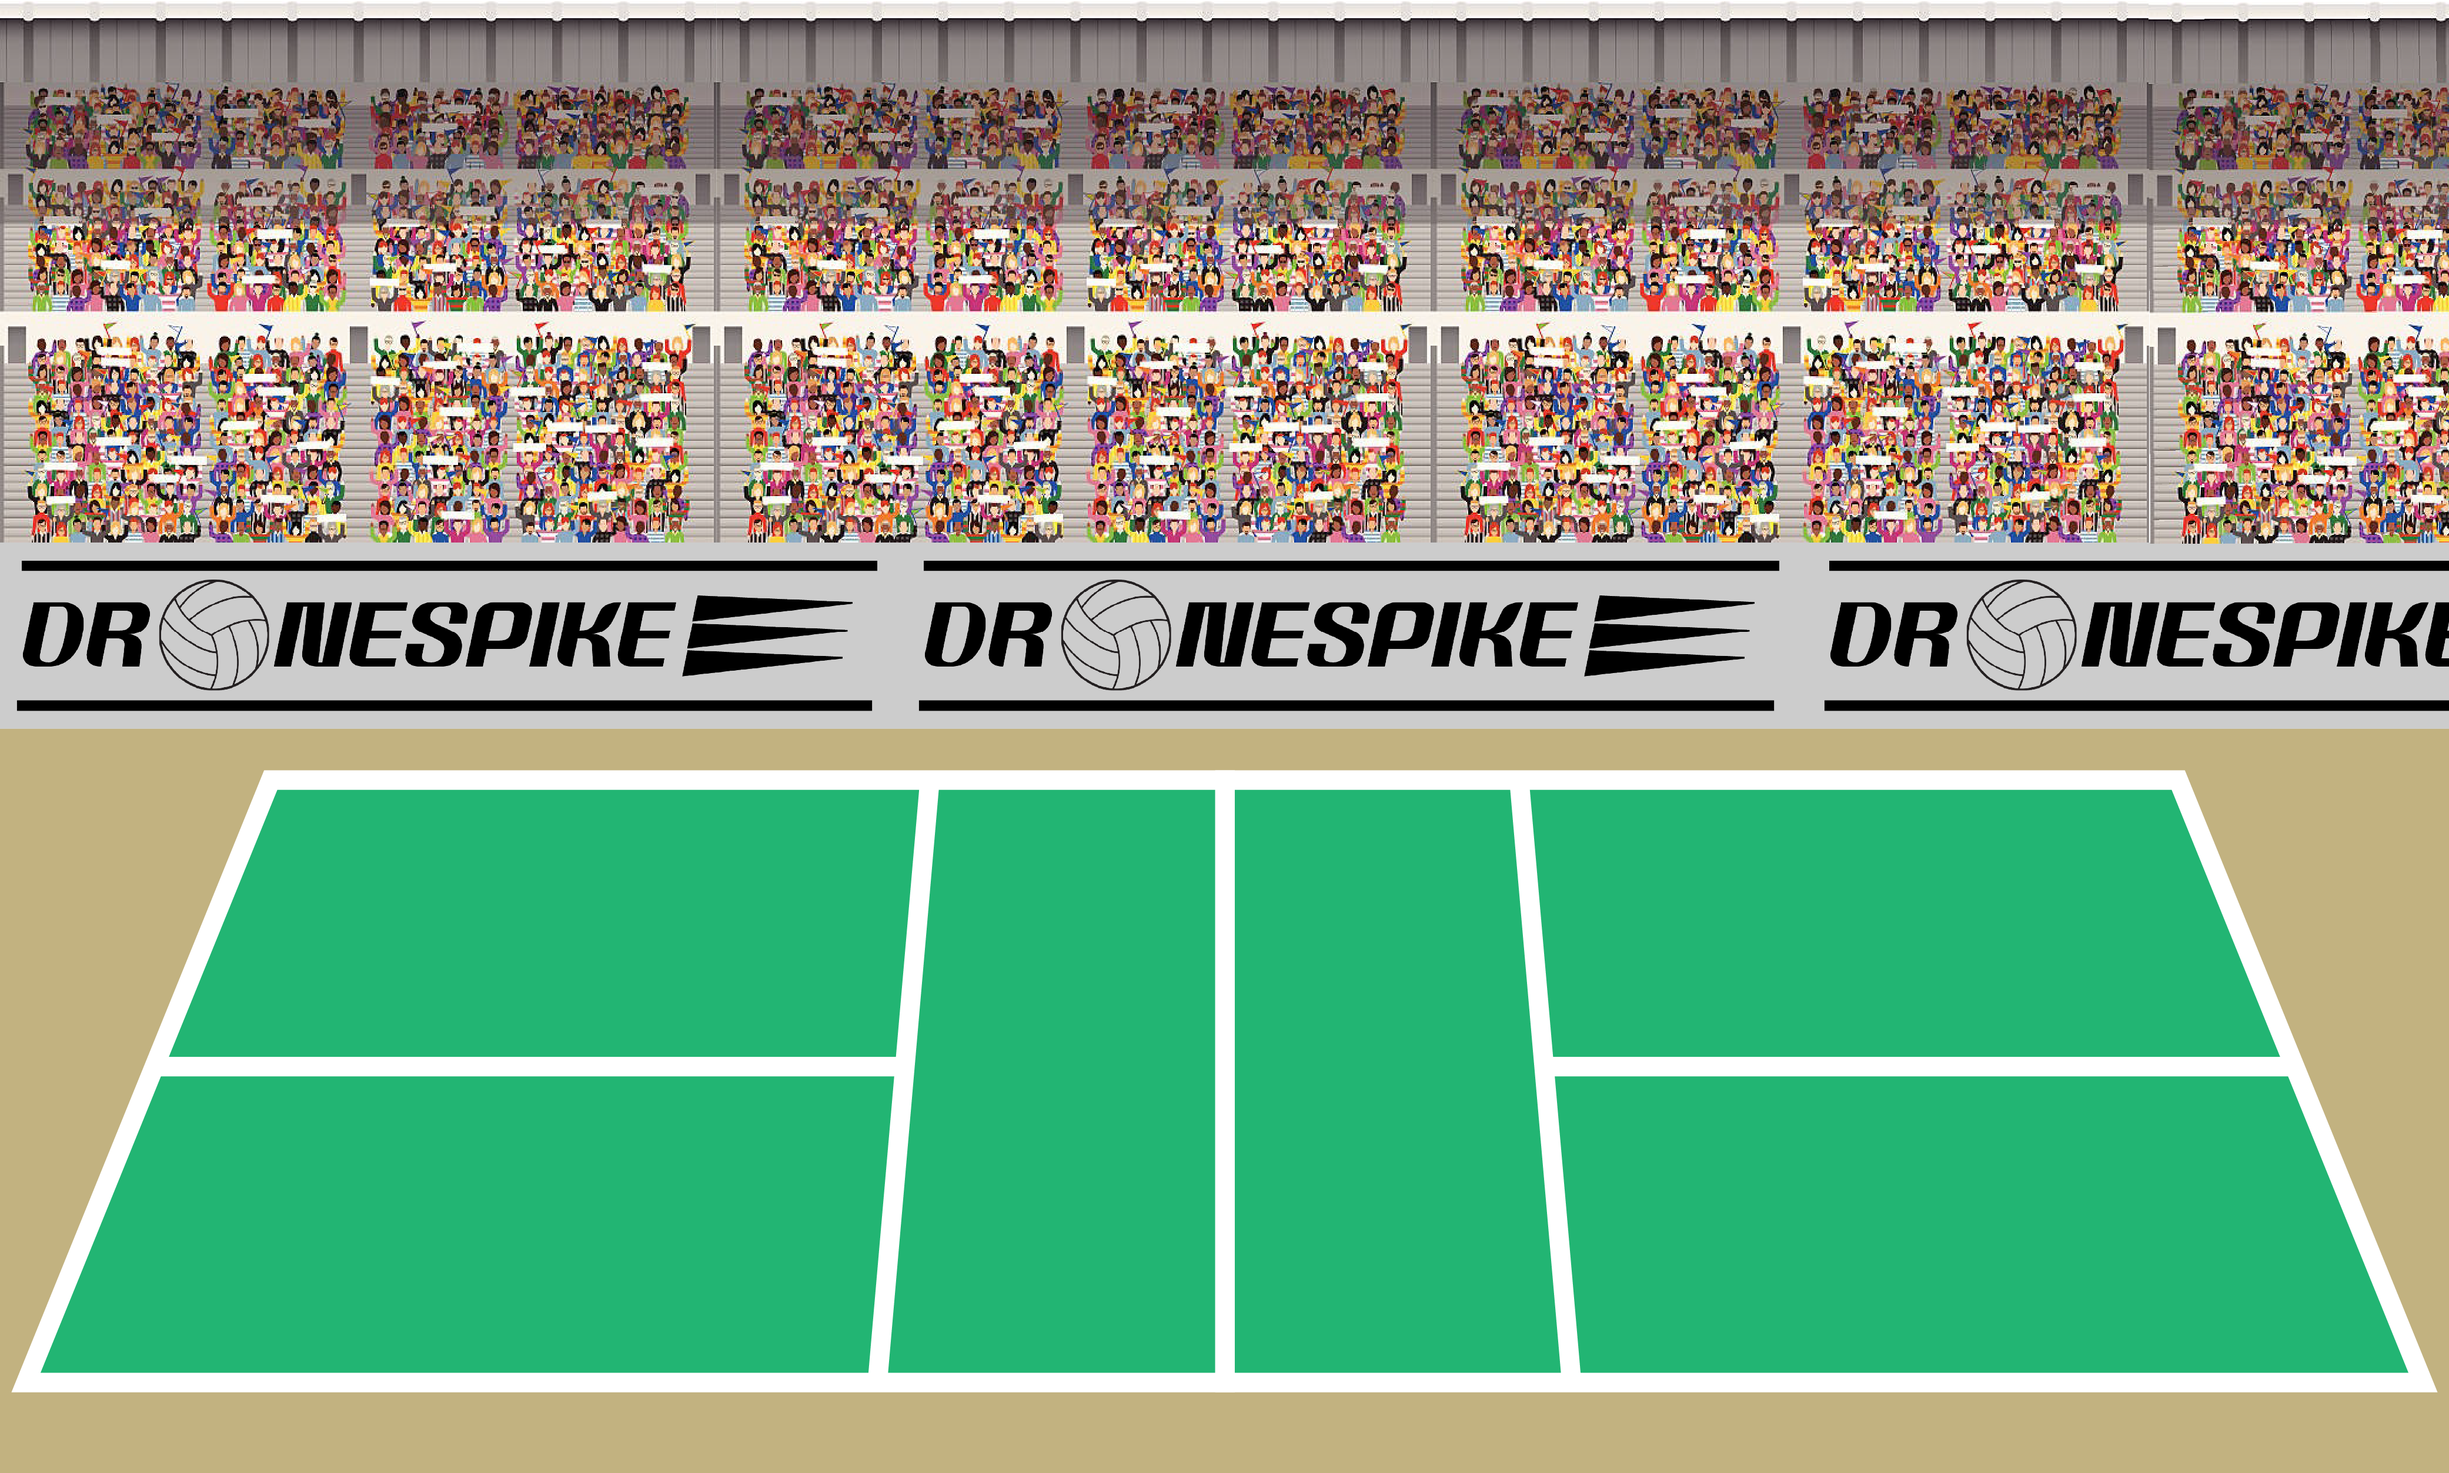
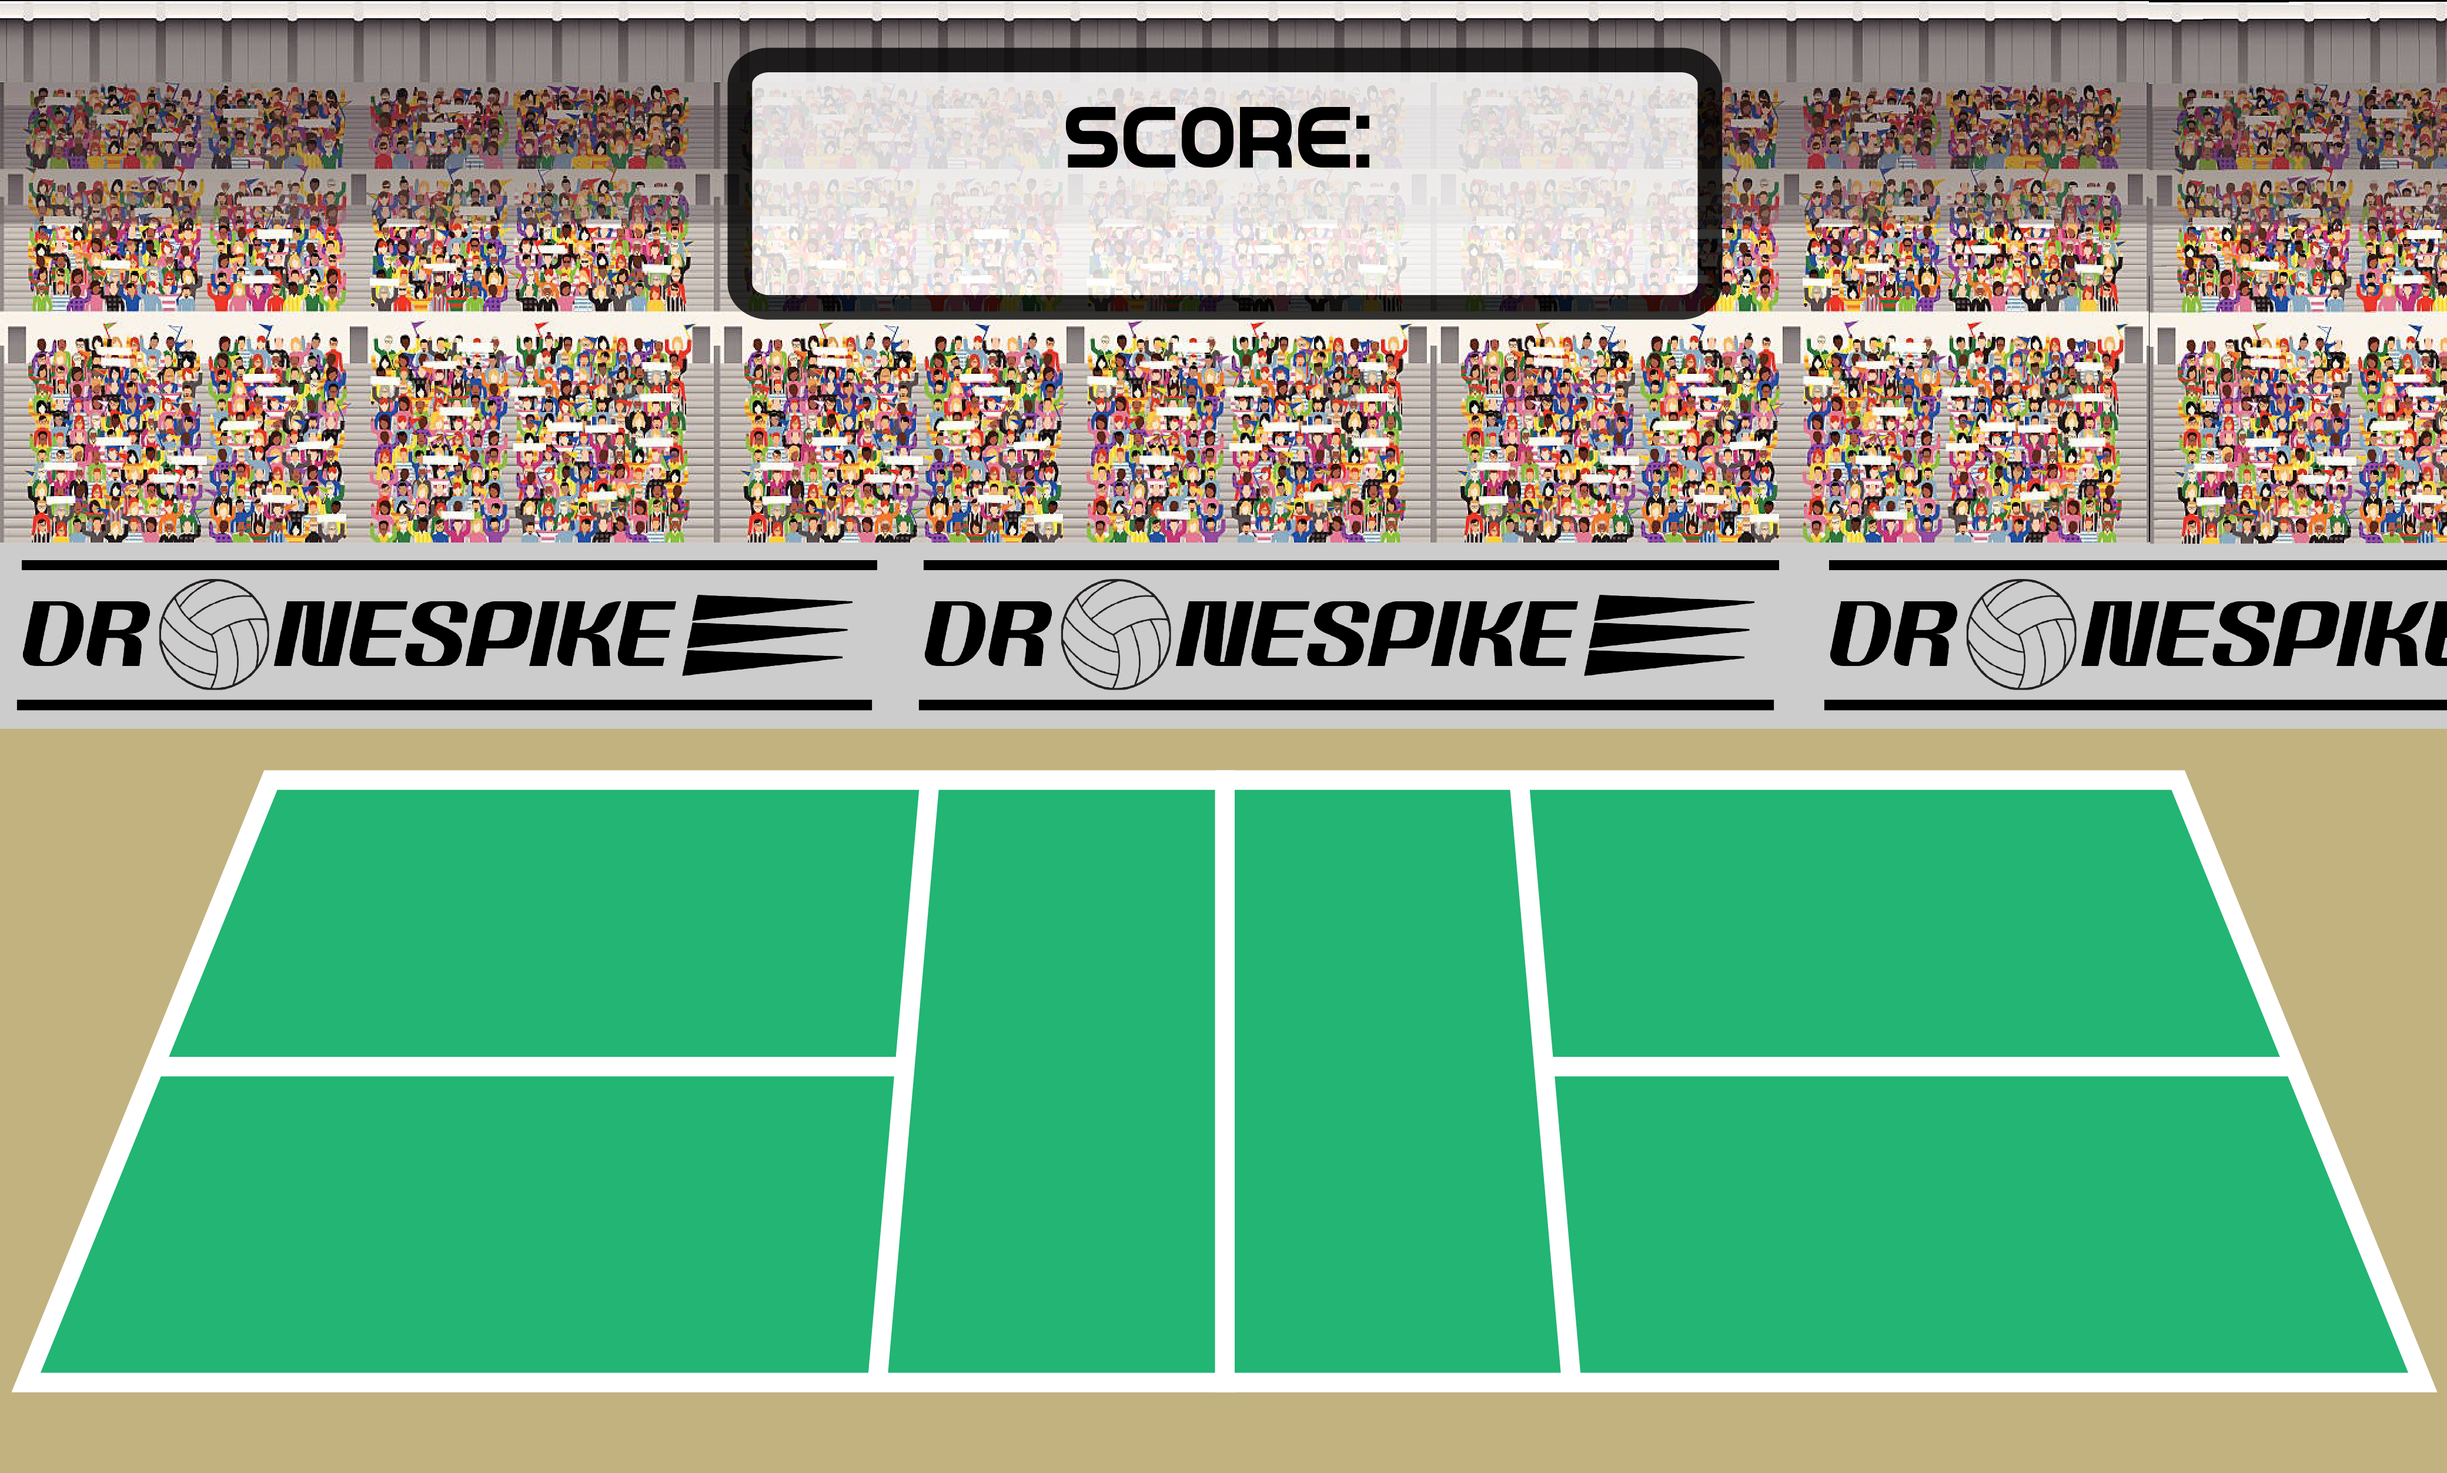
Add scoring

diff --git a/DroneSpike.py b/DroneSpike.py
@@ -4,7 +4,7 @@ SCREEN_WIDTH = 1000
 SCREEN_HEIGHT = 650
 SCREEN_TITLE = "DroneSpike"
 
-GRAVITY = 1500
+GRAVITY = 1300
 DEFAULT_DAMPING = 1.0
 PLAYER_DAMPING = 0.4
 
@@ -20,6 +20,7 @@ PLAYER_MAX_HORIZONTAL_SPEED = 450
 PLAYER_MAX_VERTICAL_SPEED = 1600
 
 PLAYER_FORCE_ON_GROUND = 8000
+FLYING_FORCE = 3000
 class GameWindow(arcade.Window):
     ''' Main application class '''
     
@@ -33,13 +34,18 @@ class GameWindow(arcade.Window):
         self.player_list = None
         self.net_list = None
         self.ball_list = None
-
-        self.p1_sprite = None
-        self.p2_sprite = None
+        self.wall_list = None
 
         self.physics_engine = arcade.PymunkPhysicsEngine
+        self.last_touch_by_player = None
+        self.won_by = None
+        self.winner = None
+
     def setup(self):
         ''' Set up the game here. Call this function to restart the game.'''
+        self.p1_score = 0
+        self.p2_score = 0
+
         self.background = arcade.load_texture("background.png")
         # Create the Sprite lists
         self.player_list = arcade.SpriteList()
@@ -75,13 +81,13 @@ class GameWindow(arcade.Window):
         self.wall_list.append(self.ceiling_sprite)
 
         self.ball_sprite = arcade.Sprite("ball.png", 0.1)
-        self.ball_sprite.center_x = 100
+        self.ball_sprite.center_x = 200
         self.ball_sprite.center_y = 650
         self.ball_list.append(self.ball_sprite)
 
-        self.net_sprite = arcade.Sprite("net.png", 0.25)
+        self.net_sprite = arcade.Sprite("net.png", 0.20)
         self.net_sprite.center_x = 500
-        self.net_sprite.center_y = 240
+        self.net_sprite.center_y = 200
         self.net_list.append(self.net_sprite)
 
         self.physics_engine = arcade.PymunkPhysicsEngine(damping=DEFAULT_DAMPING, \
@@ -90,7 +96,7 @@ class GameWindow(arcade.Window):
                                        friction=PLAYER_FRICTION, \
                                        mass=PLAYER_FRICTION, \
                                        moment=arcade.PymunkPhysicsEngine.MOMENT_INF, \
-                                       collision_type="player", \
+                                       collision_type="p1", \
                                        max_horizontal_velocity=PLAYER_MAX_HORIZONTAL_SPEED, \
                                        max_vertical_velocity=PLAYER_MAX_VERTICAL_SPEED, \
                                        elasticity=1.0)
@@ -99,7 +105,7 @@ class GameWindow(arcade.Window):
                                        friction=PLAYER_FRICTION, \
                                        mass=PLAYER_FRICTION, \
                                        moment=arcade.PymunkPhysicsEngine.MOMENT_INF, \
-                                       collision_type="player", \
+                                       collision_type="p2", \
                                        max_horizontal_velocity=PLAYER_MAX_HORIZONTAL_SPEED, \
                                        max_vertical_velocity=PLAYER_MAX_VERTICAL_SPEED, \
                                        elasticity=1.0)
@@ -107,7 +113,7 @@ class GameWindow(arcade.Window):
         self.physics_engine.add_sprite(self.ground_sprite, \
                                        friction=WALL_FRICTION, \
                                        body_type=arcade.PymunkPhysicsEngine.STATIC, \
-                                       collision_type="wall", \
+                                       collision_type="ground", \
                                        elasticity=WALL_ELASTICITY)
 
         self.physics_engine.add_sprite(self.left_wall_sprite, \
@@ -142,6 +148,26 @@ class GameWindow(arcade.Window):
                                        body_type=arcade.PymunkPhysicsEngine.STATIC, \
                                        collision_type="wall", \
                                        elasticity=WALL_ELASTICITY)
+
+        def p1_hit_handler(player_sprite, ball_sprite, _arbiter, _space, _data):
+            self.last_touch_by_player = 1
+
+        def p2_hit_handler(player_sprite, ball_sprite, _arbiter, _space, _data):
+            self.last_touch_by_player = 2
+
+        def add_point(ball_sprite, _, _arbiter, _space, _data):
+            if ball_sprite.center_x < 500:
+                self.p2_score += 1
+                self.won_by = 2
+            else:
+                self.p1_score += 1
+                self.won_by = 1
+            self.ball_sprite.remove_from_sprite_lists()
+ 
+        self.physics_engine.add_collision_handler("ball", "net", post_handler=add_point)
+        self.physics_engine.add_collision_handler("p1", "ball", post_handler=p1_hit_handler)
+        self.physics_engine.add_collision_handler("p2", "ball", post_handler=p2_hit_handler)
+        self.physics_engine.add_collision_handler("ball", "ground", post_handler=add_point)
 
         # WASD for player 1, arrow keys for player 2
         self.keys_pressed = {'w':False, 'a':False, 'd':False, \
@@ -183,11 +209,18 @@ class GameWindow(arcade.Window):
         ''' Render the screen. '''
         arcade.start_render()
         arcade.draw_lrwh_rectangle_textured(0, 0, SCREEN_WIDTH, SCREEN_HEIGHT, self.background)
+        arcade.draw_text(f"{self.p1_score} : {self.p2_score}", 460, 530, arcade.csscolor.RED, 30)
         self.net_list.draw()
         self.player_list.draw()
         self.wall_list.draw()
         self.ball_list.draw()
-
+        if self.winner != None:
+            arcade.draw_rectangle_filled(500, 325, SCREEN_WIDTH, SCREEN_HEIGHT, arcade.csscolor.LIGHT_GOLDENROD_YELLOW)
+            if self.winner == 2:
+                arcade.draw_text(f"Right player wins!", 300, 300, arcade.csscolor.BLACK, 50)
+            if self.winner == 1:
+                arcade.draw_text(f"Left player wins!", 300, 300, arcade.csscolor.BLACK, 50)
+    
     def on_update(self, delta_time):
         ''' Movement and game logic '''
         if self.keys_pressed['a'] and not self.keys_pressed['d']:
@@ -197,7 +230,7 @@ class GameWindow(arcade.Window):
             self.physics_engine.apply_force(self.p1_sprite, (PLAYER_FORCE_ON_GROUND, 0))
             self.physics_engine.set_friction(self.p1_sprite, 0)
         if self.keys_pressed['w']:
-            self.physics_engine.apply_force(self.p1_sprite, (0, 2500))
+            self.physics_engine.apply_force(self.p1_sprite, (0, FLYING_FORCE))
         else:
             self.physics_engine.set_friction(self.p1_sprite, PLAYER_FRICTION)
 
@@ -208,12 +241,30 @@ class GameWindow(arcade.Window):
             self.physics_engine.apply_force(self.p2_sprite, (PLAYER_FORCE_ON_GROUND, 0))
             self.physics_engine.set_friction(self.p2_sprite, 0)
         if self.keys_pressed['up']:
-            self.physics_engine.apply_force(self.p2_sprite, (0, 2500))
+            self.physics_engine.apply_force(self.p2_sprite, (0, FLYING_FORCE))
         else:
             self.physics_engine.set_friction(self.p2_sprite, PLAYER_FRICTION)
 
+        if not self.ball_list:
+            if self.won_by == 2:
+                self.ball_sprite.center_x = 200
+            else:
+                self.ball_sprite.center_x = 800
+            self.ball_sprite.center_y = 650
+            self.ball_list.append(self.ball_sprite)
+            self.physics_engine.add_sprite(self.ball_sprite,\
+                                           friction=0.9, \
+                                           mass=BALL_MASS, \
+                                           collision_type="ball", \
+                                           max_horizontal_velocity=PLAYER_MAX_HORIZONTAL_SPEED, \
+                                           max_vertical_velocity=PLAYER_MAX_VERTICAL_SPEED, \
+                                           elasticity=1.0, \
+                                           radius=1)
+        if self.p1_score == 7:
+            self.winner = 1
+        if self.p2_score == 7:
+            self.winner = 2
         self.physics_engine.step()
-
 
 def main():
     window = GameWindow()
